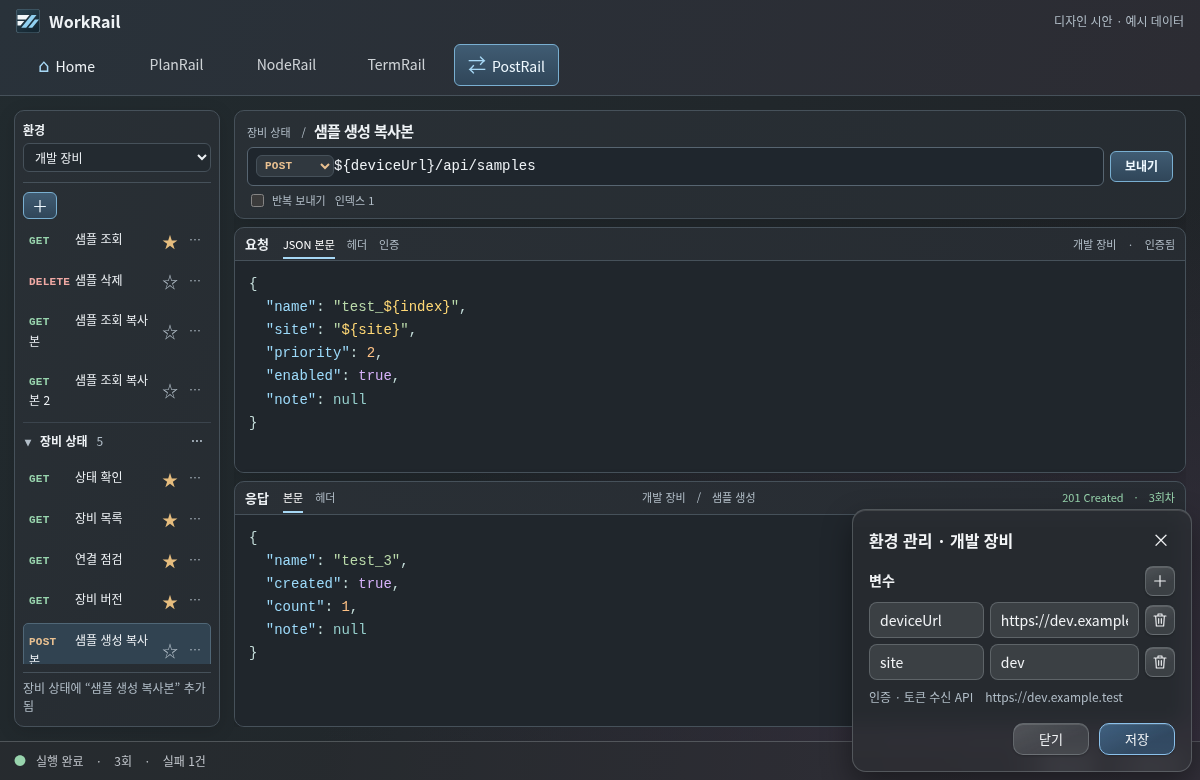
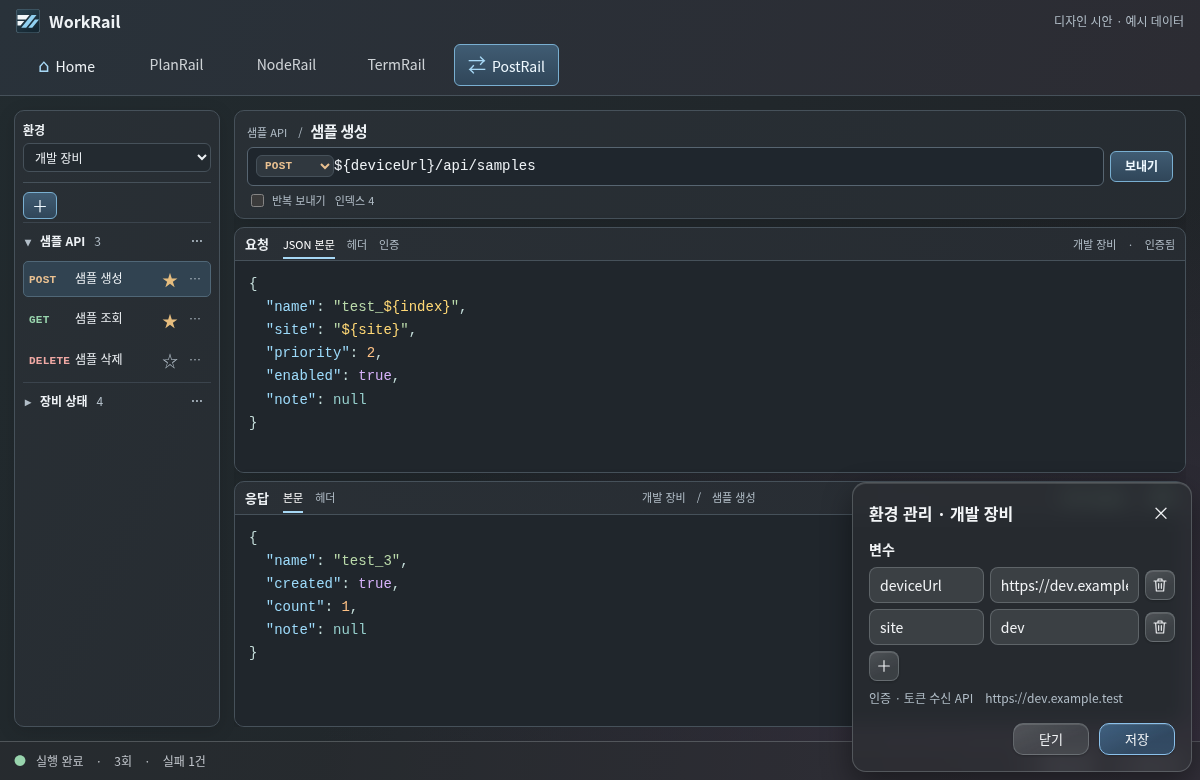
Duplicate PostRail requests in one action and move variable add below rows

diff --git a/docs/design/mockups/postrail-workspace.html b/docs/design/mockups/postrail-workspace.html
@@ -115,7 +115,6 @@ body:has(#post:not([hidden])){height:100dvh}
 #dialog .variable-icon{width:30px;height:30px;min-height:30px;padding:0;display:inline-grid;place-items:center}
 .variable-icon svg{width:16px;height:16px;fill:none;stroke:currentColor;stroke-width:1.7;stroke-linecap:round;stroke-linejoin:round}
 #dialog .varrow{grid-template-columns:minmax(0,1fr) minmax(0,1.3fr) 30px;align-items:center}
-#contextMenu kbd{float:right;color:var(--sub);font:11px/1.7 var(--mono);margin-left:14px}
 </style>
[1 lines of base64/hex data omitted]
 <main id="post">
@@ -276,10 +275,8 @@ function menuButton(label,entries,classes='more',symbol='…'){
     event.preventDefault();
     if(!menu.hidden&&menuAnchor===trigger){dismissMenu(true);return}
     dismissMenu();menuAnchor=trigger;
-    const options=typeof entries==='function'?entries():entries;
-    menu.replaceChildren(...options.map(([title,action,shortcut])=>{
+    menu.replaceChildren(...entries.map(([title,action])=>{
       const opt=button(title,()=>{dismissMenu(true);action()});opt.setAttribute('role','menuitem');
-      if(shortcut){opt.setAttribute('aria-label',title);opt.append(node('kbd',shortcut))}
       return opt;
     }));
     menu.hidden=false;trigger.setAttribute('aria-expanded','true');
@@ -303,17 +300,17 @@ menu.onkeydown=e=>{
 };
 // The request list has its own clipboard. Text inputs keep native clipboard behavior.
 let copiedRequest=null;
+function requestDefinition(r){return {name:r.name,method:r.method,url:r.url,body:r.body}}
 function copyRequest(r){
-  copiedRequest={name:r.name,method:r.method,url:r.url,body:r.body};
+  copiedRequest=requestDefinition(r);
   $('copyStatus').textContent='“'+r.name+'” 복사됨';
 }
-function pasteRequest(folder){
-  if(!copiedRequest)return;
-  const base=copiedRequest.name+' 복사본';
+function addRequestCopy(definition,folder){
+  const base=definition.name+' 복사본';
   const taken=new Set(requests.filter(r=>r.folder===folder).map(r=>r.name));
   let name=base;
   for(let n=2;taken.has(name);n++)name=base+' '+n;
-  const r={...copiedRequest,name,folder,index:1n,favorite:false};
+  const r={...definition,name,folder,index:1n,favorite:false};
   requests.push(r);folder.open=true;choose(r);
   focusRequest();$('copyStatus').textContent=folder.name+'에 “'+name+'” 추가됨';
 }
@@ -323,11 +320,8 @@ function listKey(e,folder,r){
   const key=e.key.toLowerCase();
   if((key==='c'&&r)||(key==='v'&&copiedRequest)){
     e.preventDefault();if(e.repeat)return;
-    if(key==='c')copyRequest(r);else pasteRequest(folder);
+    if(key==='c')copyRequest(r);else addRequestCopy(copiedRequest,folder);
   }
-}
-function pasteEntry(folder){
-  return copiedRequest?[['붙여넣기',()=>pasteRequest(folder),'Ctrl+V']]:[];
 }
 function tree() {
   $('tree').replaceChildren();
@@ -339,12 +333,12 @@ function tree() {
     const entries=[['요청 추가',()=>requestEditor(null,g)]];
     if(g!==loose)entries.push(['수정',()=>groupEditor(g)],['삭제',()=>removeGroup(g)]);
     summary.onkeydown=e=>listKey(e,g);
-    summary.append(menuButton(g.name+' 그룹 메뉴',()=>[...entries,...pasteEntry(g)],'more auto'));
+    summary.append(menuButton(g.name+' 그룹 메뉴',entries,'more auto'));
     details.append(summary);
     requests.filter(r=>r.folder===g).forEach(r=>{
       const item=node('div',undefined,'item'+(current===r?' sel':''));
       const chooseBtn=button('',()=>{choose(r);focusRequest()});chooseBtn.onkeydown=e=>listKey(e,g,r);chooseBtn.append(node('span',r.method,'verb '+r.method.toLowerCase()),document.createTextNode(r.name));
-      const edit=menuButton(r.name+' 요청 메뉴',()=>[['수정',()=>requestEditor(r)],['복사',()=>{copyRequest(r);if(current!==r)choose(r);focusRequest()},'Ctrl+C'],...pasteEntry(g),['삭제',()=>removeRequest(r)]]);
+      const edit=menuButton(r.name+' 요청 메뉴',[['수정',()=>requestEditor(r)],['복제',()=>addRequestCopy(requestDefinition(r),g)],['삭제',()=>removeRequest(r)]]);
       const star=button(r.favorite?'★':'☆',()=>{
         r.favorite=!r.favorite;
         star.textContent=r.favorite?'★':'☆';
@@ -376,7 +370,8 @@ function manage() {
     if(names.some(s=>!s||s==='index')||new Set(names).size!==names.length){message.textContent='각 변수에 서로 다른 이름을 입력하세요. index는 예약 이름입니다.';return}
     env().vars=entries;$('dialog').close();draw();
   });
-  const head=node('div',undefined,'row apart');head.append(node('h3','변수'),variableIcon('변수 추가','M12 4v16M4 12h16',()=>add('','').focus()));
+  const head=node('h3','변수');
+  const addVariable=variableIcon('변수 추가','M12 4v16M4 12h16',()=>add('','').focus());
   rows=node('div');const message=node('p','','note');message.setAttribute('role','status');
   function add(key,val){
     const row=node('div',undefined,'varrow');const k=node('input'),v=node('input');
@@ -384,13 +379,13 @@ function manage() {
     k.value=key;v.value=val;
     const remove=variableIcon('변수 삭제','M3 6h18M9 6V3h6v3M5.5 6l1 15h11l1-15M10 10v7m4-7v7',()=>{
       const next=row.nextElementSibling??row.previousElementSibling;
-      row.remove();(next?.querySelector('input')??head.querySelector('button')).focus();
+      row.remove();(next?.querySelector('input')??addVariable).focus();
     });
     function labelRemove(){remove.setAttribute('aria-label',(k.value?k.value+' ':'')+'변수 삭제')}
     k.oninput=labelRemove;labelRemove();
     row.append(k,v,remove);rows.append(row);return k;
   }
-  env().vars.forEach(([k,v])=>add(k,v));$('dialogBody').append(head,rows,message,node('p','인증 · 토큰 수신 API　'+env().api,'note'));
+  env().vars.forEach(([k,v])=>add(k,v));$('dialogBody').append(head,rows,addVariable,message,node('p','인증 · 토큰 수신 API　'+env().api,'note'));
 }
 function count() {
   if(values(current)?.method!=='POST'||!$('repeat').checked)return 1n;

diff --git a/docs/design/postrail-workspace.md b/docs/design/postrail-workspace.md
@@ -13,17 +13,17 @@
 
 | 진입점 | 동작 |
 | --- | --- |
-| 요청 옆 … | ‘수정’, ‘복사’, ‘삭제’를 제공한다. 요청을 복사한 뒤에는 ‘붙여넣기’로 이 요청이 속한 그룹에 복사본을 만든다. |
-| 그룹 옆 … | ‘요청 추가’, ‘수정’, ‘삭제’를 제공하며 복사한 요청이 있으면 ‘붙여넣기’도 제공한다. 그룹만 삭제하면 소속 요청은 별표와 다음 인덱스를 유지한 채 미분류로 이동한다. 미분류에서도 요청 추가와 붙여넣기를 할 수 있다. |
+| 요청 옆 … | ‘수정’, ‘복제’, ‘삭제’를 제공한다. ‘복제’를 누르면 같은 그룹에 독립된 요청이 즉시 생기고 선택된다. |
+| 그룹 옆 … | ‘요청 추가’, ‘수정’, ‘삭제’를 제공한다. 그룹만 삭제하면 소속 요청은 별표와 다음 인덱스를 유지한 채 미분류로 이동한다. 미분류 그룹 메뉴에는 ‘요청 추가’를 둔다. |
 | 수정 팝업 하단 | 그룹은 **그룹 삭제**, 요청은 **요청 삭제**를 가장 왼쪽에 둔다. **닫기**와 **저장**은 오른쪽에 둔다. 어느 경로에서든 삭제 확인을 닫으면 자료를 유지한다. |
 
 요청·그룹 추가/수정, 삭제 확인, 환경 관리, 반복 보내기와 안내 팝업은 PlanRail **알림 설정**을 따른다. 호출한 버튼 아래 8px에 열고 화면 경계에 맞춰 보정한다. 최대 폭 340px, 안쪽 여백 16px, 모서리 14px, 제목 16px, 10px 유리 흐림과 투명한 배경막을 사용한다. 우상단 ×, Escape 또는 바깥 클릭으로 닫는다. 수정 창에서는 삭제 버튼만 왼쪽에 두고 닫기와 저장은 오른쪽으로 모은다. [알림 설정 컴포넌트](../../src/renderer/components/QuickReminder.tsx) · [팝업 스타일](../../src/renderer/forest-crystal.css) · [컨텍스트 메뉴](../../src/renderer/termrail/WorkspaceControls.tsx)
 
 [통합 추가 메뉴와 변경 저장 위치](mockups/postrail-add-menu.png) · [그룹 메뉴 시안](mockups/postrail-group-menu.png) · [요청 수정 팝업 시안](mockups/postrail-request-edit.png)
 
-### 요청 복사와 붙여넣기
+### 요청 복제와 단축키
 
-왼쪽 목록에서 **샘플 조회**를 클릭하고 **Ctrl+C → Ctrl+V**를 누르면 같은 그룹에 **샘플 조회 복사본**이 생긴다. 다른 그룹 이름에 포커스를 두고 Ctrl+V를 누르면 그 그룹에 추가한다. 마우스로는 요청의 **… → 복사**, 대상 요청이나 그룹의 **… → 붙여넣기**를 사용한다. 같은 이름이 있으면 ‘복사본 2’부터 구분한다.
+왼쪽 목록에서 **샘플 조회**를 클릭하고 **Ctrl+C → Ctrl+V**를 누르면 같은 그룹에 **샘플 조회 복사본**이 생긴다. 다른 그룹 이름에 포커스를 두고 Ctrl+V를 누르면 그 그룹에 추가한다. 마우스로는 **… → 복제** 한 번으로 같은 그룹에 복사본을 만든다. 메뉴로 복제해도 Ctrl+C로 복사해 둔 요청은 유지한다. 같은 이름이 있으면 ‘복사본 2’부터 구분한다.
 
 복사 시점의 저장된 정의(이름·메서드·URL·본문, 제품 설계상 헤더와 실행 전 설정 참조)를 담는다. 복사본은 다음 인덱스 1, 즐겨찾기 해제로 시작한다. 발급된 토큰, 보호 변수의 실제 값, 실행 결과와 미저장 편집은 제외한다. 앱 안에서만 보관하는 요청 복사본이므로 URL·코드 편집기 등에서는 기존 시스템 텍스트 복사·붙여넣기를 사용한다. [요청 메뉴 시안](mockups/postrail-request-copy.png)
 
@@ -45,7 +45,7 @@ URL, 요청 본문과 응답 본문은 14px 고정폭을 사용한다. PostRail 
 
 ## 변수는 어디에서 추가하는가
 
-**PostRail 우측 하단 → 환경 관리 → 대상 환경의 변수 → ＋ 아이콘 → 이름과 값 입력 → 저장**. ‘변수’ 오른쪽의 ＋ 아이콘으로 새 행을 추가하고 첫 입력란으로 포커스를 옮긴다. 각 행의 오른쪽 휴지통은 해당 변수를 삭제하며, 저장해야 반영된다. 팝업 우측 상단의 ×는 창을 닫는다. 아이콘에는 툴팁과 접근성 이름을 제공한다. [환경 관리 시안](mockups/postrail-environment.png)
+**PostRail 우측 하단 → 환경 관리 → 대상 환경의 변수 목록 아래 → ＋ 아이콘 → 이름과 값 입력 → 저장**. 마지막 변수 행 아래의 ＋ 아이콘으로 새 행을 추가하고 첫 입력란으로 포커스를 옮긴다. 각 행의 오른쪽 휴지통은 해당 변수를 삭제하며, 저장해야 반영된다. 팝업 우측 상단의 ×는 창을 닫는다. 아이콘에는 툴팁과 접근성 이름을 제공한다. [환경 관리 시안](mockups/postrail-environment.png)
 
 시안은 왼쪽에서 선택한 환경을 관리 창 제목에 표시한다. 예를 들어 개발 환경에 장비 주소를 `deviceUrl`로 등록하고, URL에 `${deviceUrl}/api/samples`를 입력한다. 같은 요청을 QA 환경에서 열면 QA에 등록한 값을 쓴다. 중복 이름과 예약 이름 `index`는 저장 전에 표시한다. 비밀번호는 보호 변수로 다루며 요청 본문·목록·Home에 원문을 노출하지 않는다. 시안의 변수 편집은 예시 일반 변수에 한한다.
 

diff --git a/docs/wayfinder/STATUS.md b/docs/wayfinder/STATUS.md
@@ -1,5 +1,7 @@
 # 진행 상태
 
+2026-11-20 PostRail 요청 메뉴에서 한 번에 같은 그룹에 복제하고 환경 변수 목록 아래에서 행을 추가하도록 [설계와 시안](../design/postrail-workspace.md)을 갱신했다. 목록 단축키는 유지한다. 제품 구현 전이다.
+
 2026-11-20 PostRail 저장 요청 메뉴·단축키 복사와 그룹 붙여넣기, 환경 변수 추가·삭제 아이콘을 [설계와 시안](../design/postrail-workspace.md)에 반영했다. 제품 구현 전이다.
 
 2026-11-20 PostRail 시안의 요청 이름 옆 변경 저장, 통합 추가 메뉴, 전체 높이의 왼쪽 패널과 PlanRail 알림 설정형 팝업을 [작업 화면 설계](../design/postrail-workspace.md)에 반영했다. 제품 구현 전이다.
